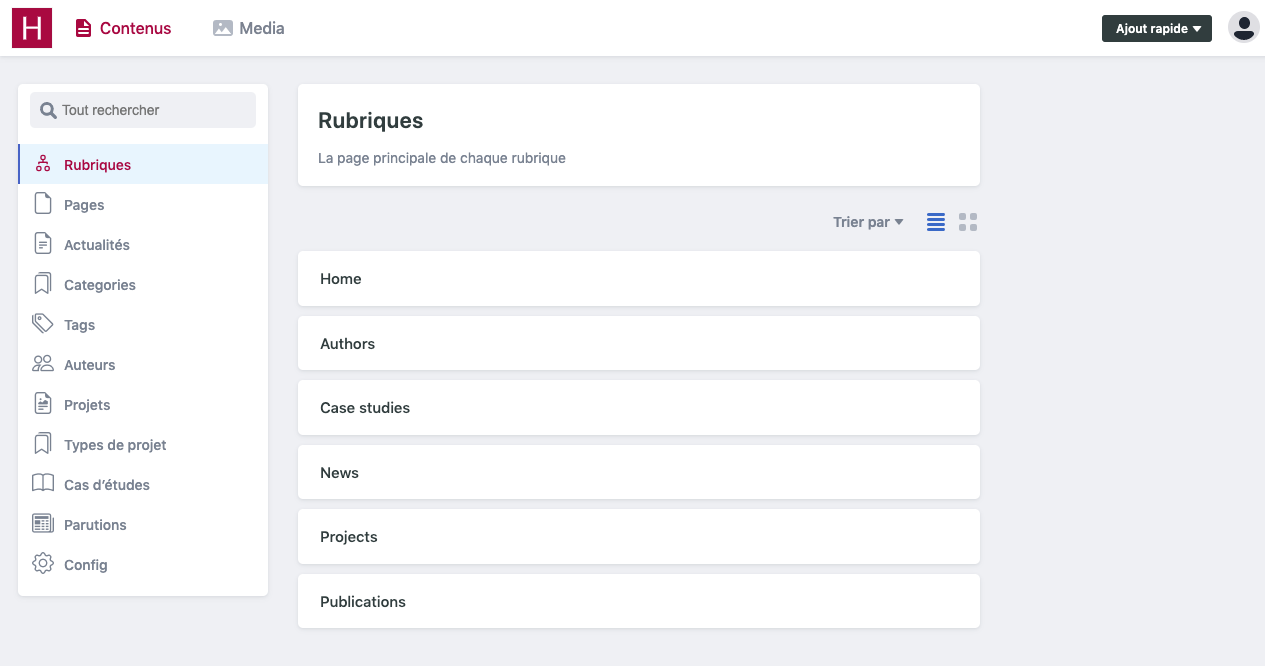
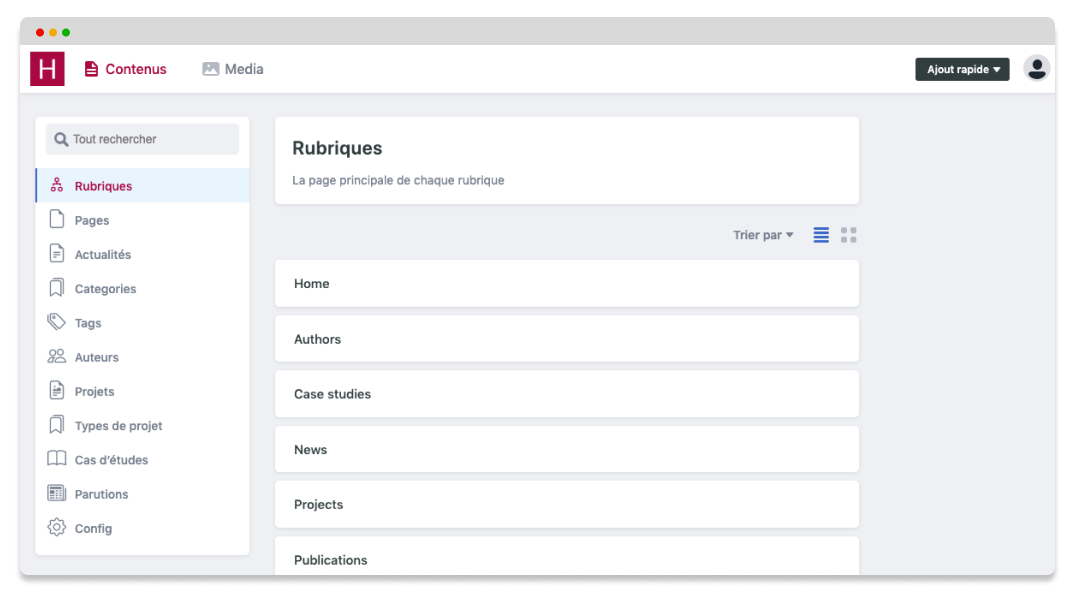
update mod and content

diff --git a/content/_index.md b/content/_index.md
@@ -24,29 +24,29 @@ blocks:
       text: And taxonomies like categories, tags, authors…
     items:
       - title: Case study
-        icon: book
         text: Present case studies with blocks of content
+        icon: book
       - title: Expertise
-        icon: mortarboard
         text: Skills of a firm or a person
-      - title: Office
-        icon: buildings
-        text: Places of your firm
-      - icon: file-earmark
-        title: Page
+        icon: mortarboard
+      - title: Page
         text: Nested pages with blocks of content
+        icon: file-earmark
+      - title: Place
+        text: Places of your firm
+        icon: buildings
       - title: Person
-        icon: people
         text: Authors, concerned and persons 
+        icon: people
       - title: Post
-        icon: file-earmark-text
         text: News about your business
+        icon: file-earmark-text
       - title: Project
-        icon: file-earmark-richtext
         text: Your projects with image list and data list
+        icon: file-earmark-richtext
       - title: Publication
-        icon: newspaper
         text: Archiving of press releases
+        icon: newspaper
   - type: informations
     column: 4
     background: false
@@ -120,17 +120,15 @@ blocks:
         text: Add title section
         icon: type-h2
     text: Modular content for pages pages, offices and case studies
-  - type: title
-    background: true
-    heading:
-      title: Very simple content manager
   - type: figure
     grid: large
     offset: center
     background: true
+    heading:
+      title: Very simple content manager with Decap CMS
     figure:
       src: /images/uploads/admin-home.png
-      legend: Homepage
+      alt: Homepage screenshot of Hugolify Admin
   - type: informations
     column: 4
     heading:
